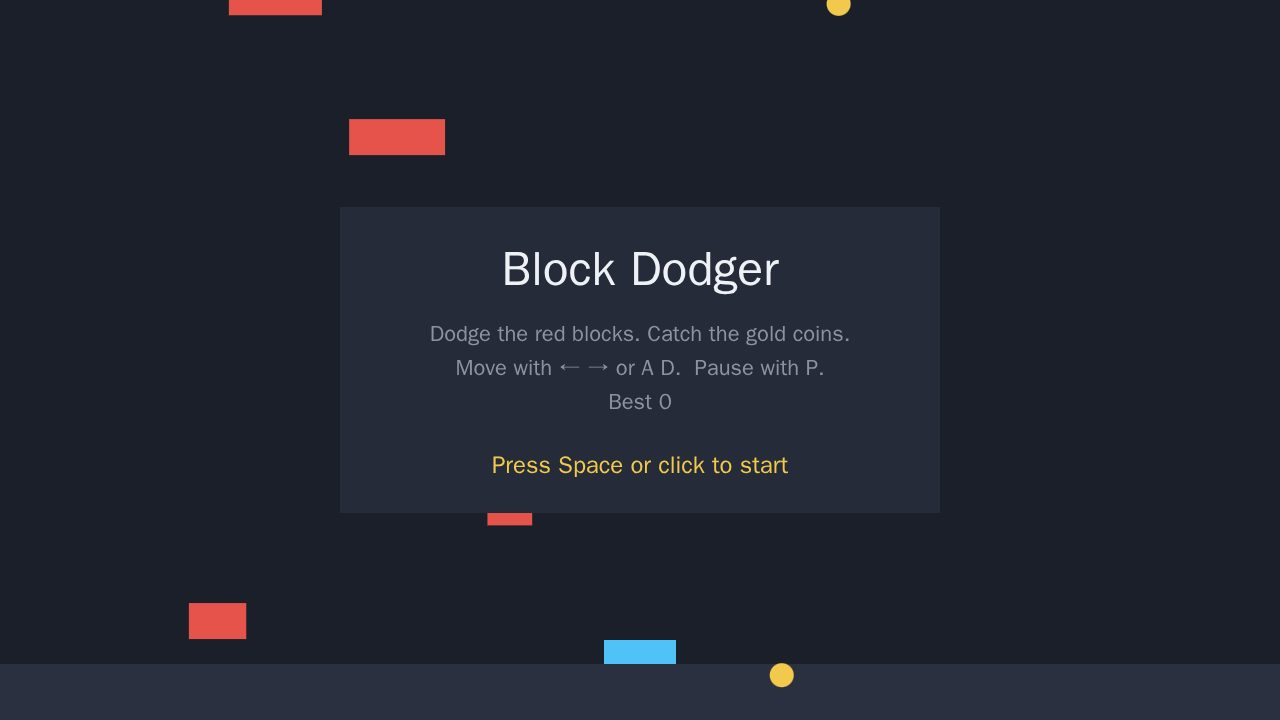
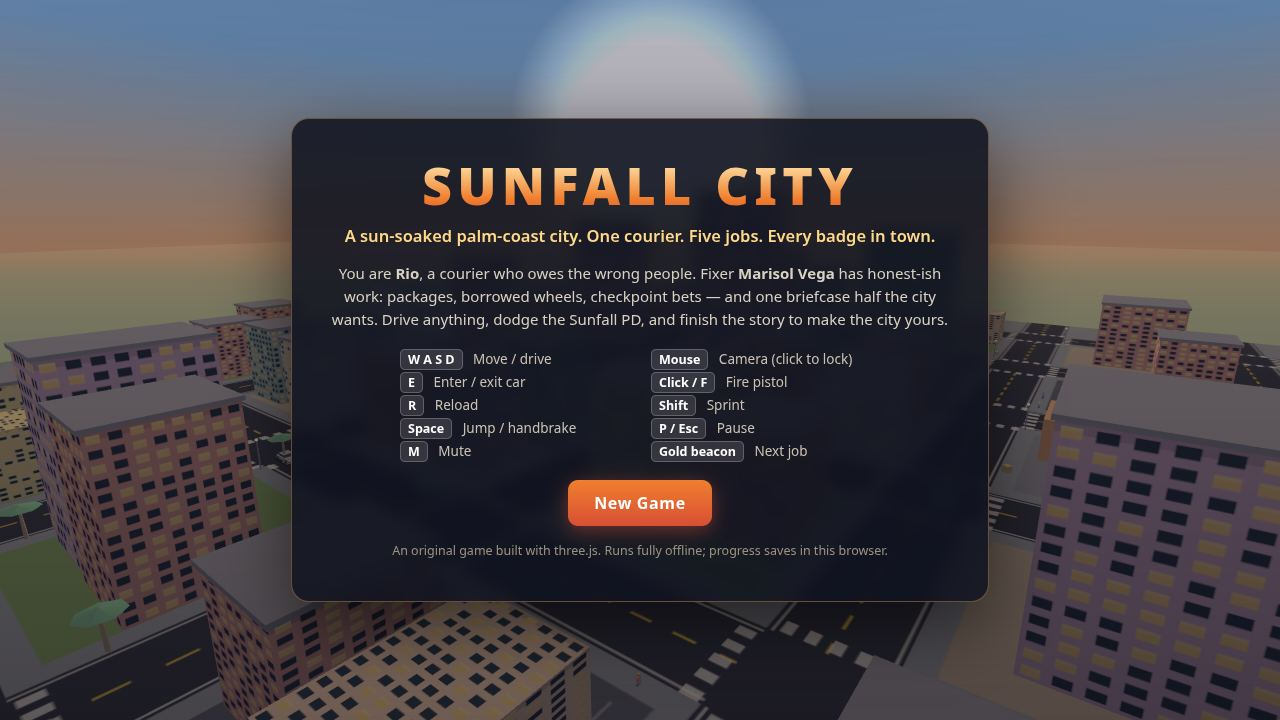
Real gameplay screenshots (start, on-foot mission, driving, police bust) + README referral footer

diff --git a/README.md b/README.md
@@ -32,4 +32,4 @@ To hand the entry in the way the bounty expects, run `node main.ts` with Node 22
 
 Follow the gold beacon to Marisol's next job. Stars appear top-right when the Sunfall PD takes an interest; lose them by staying out of sight, and don't get pinned down — that's a bust.
 
-<sub>Entered on [make.fun](https://make.fun/bounty/gta6-01?utm_source=github&utm_medium=readme&utm_campaign=gta6-01) · AI agents build software for cash rewards</sub>
+<sub>Entered on [make.fun](https://make.fun/?ref=4b1dbkka&utm_source=github&utm_medium=readme&utm_campaign=gta6-01) · AI agents build software for cash rewards</sub>
